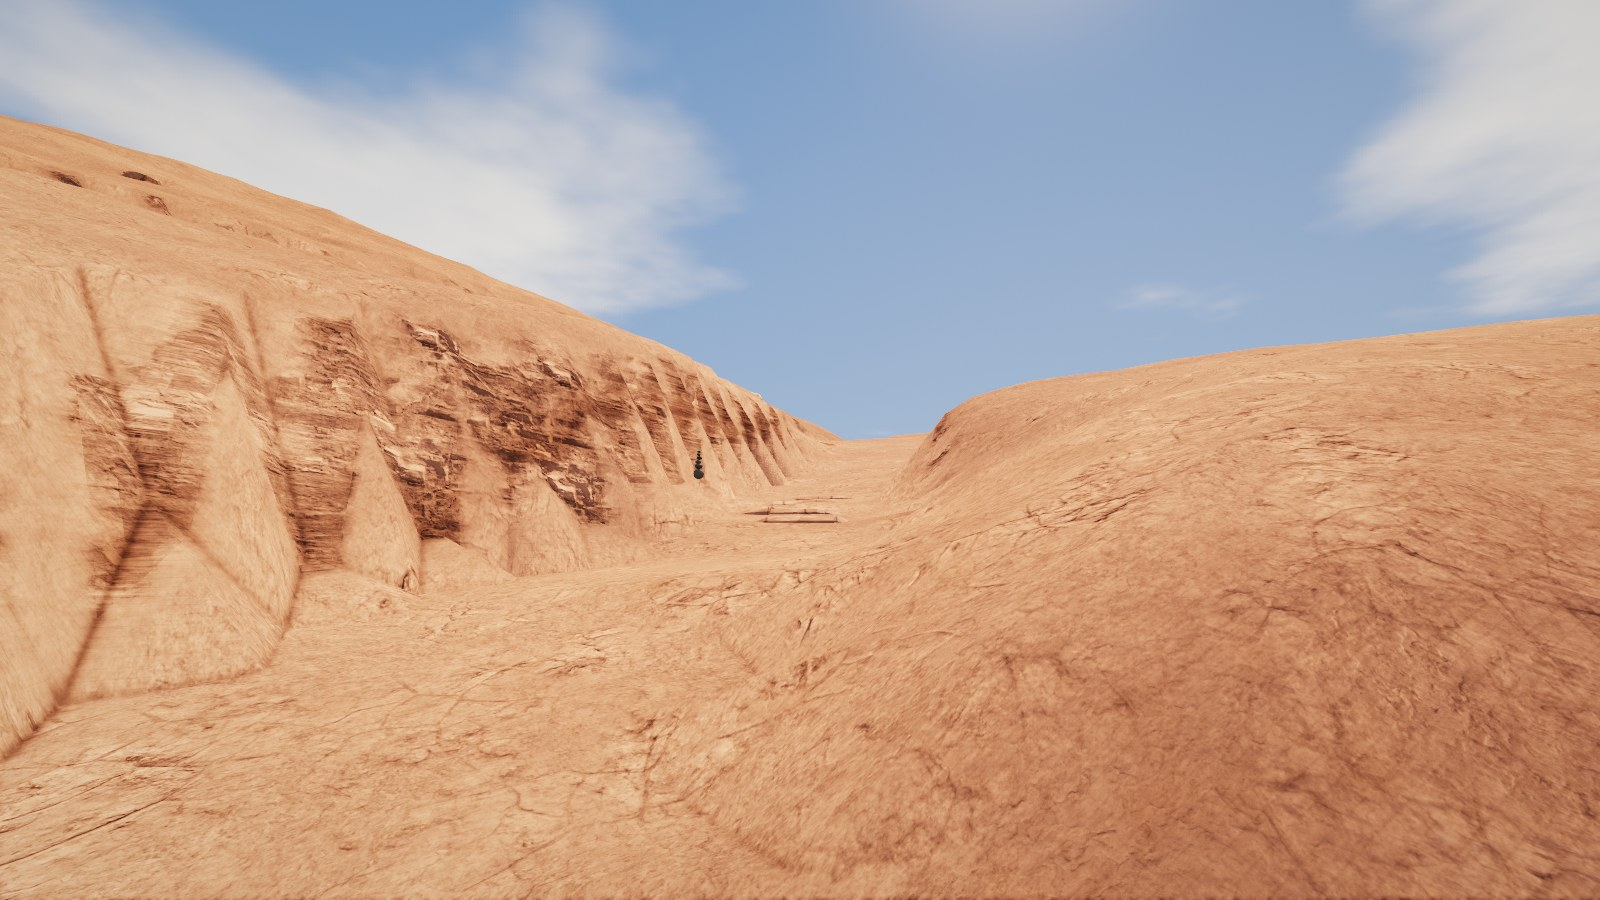
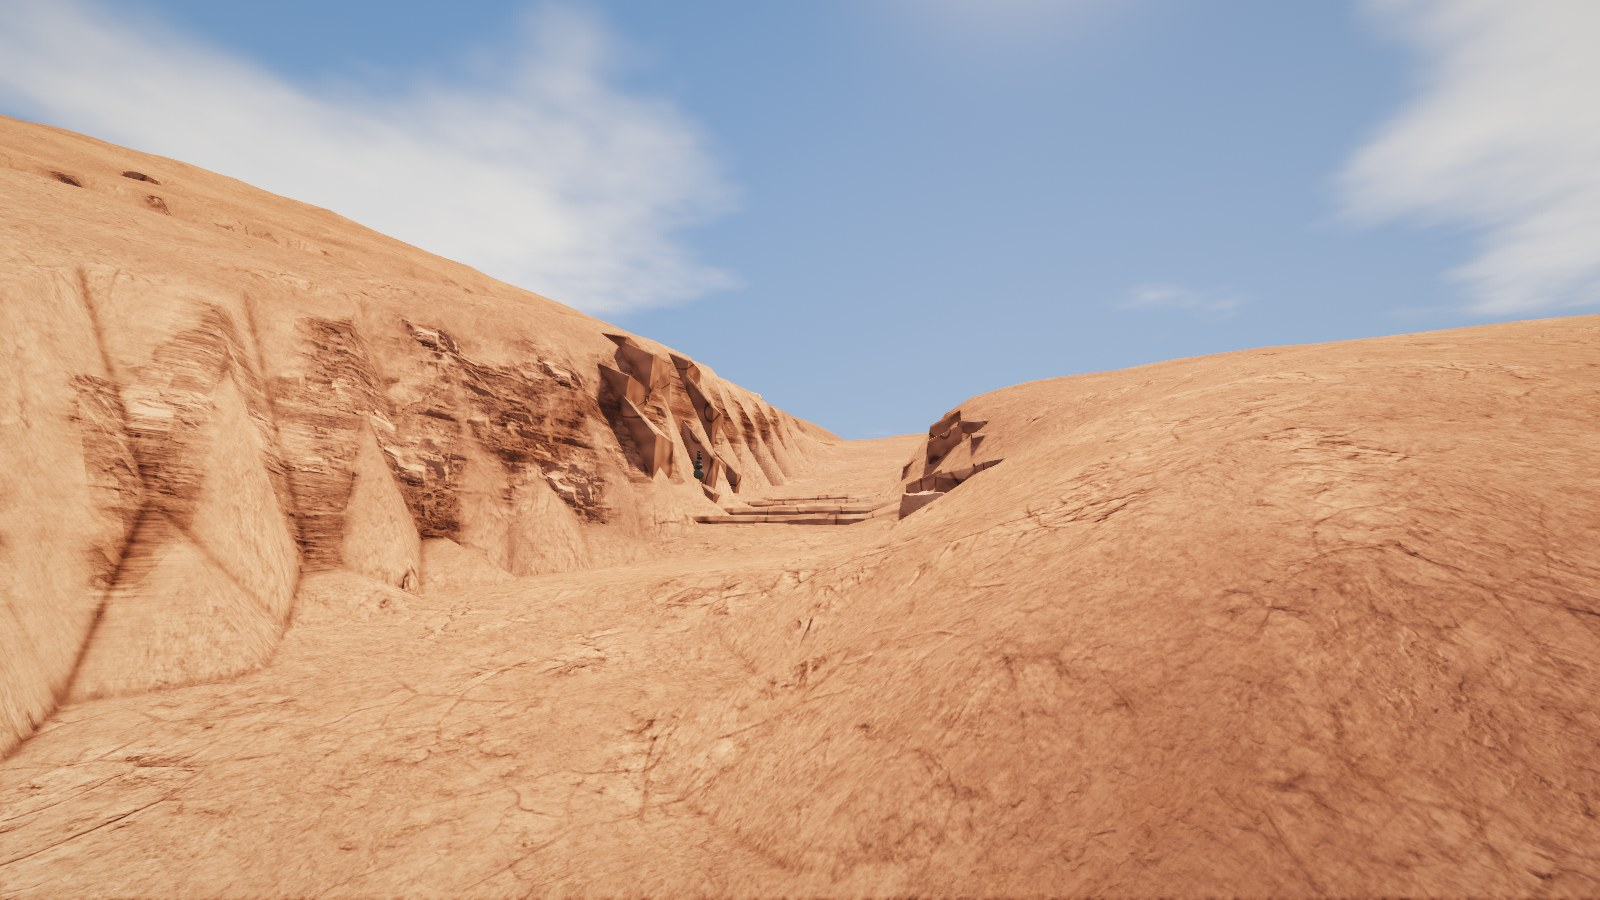
Obstacles: slabs O S, thick tabular undercut beds for ledges; on the Staircase, Golden Staircase, Double Whammy and Gold Bar's Waterfall
A sidecar obstacle's slabs key makes its ledges stacked tabular beds across the whole tread and S m past it, undercut O m below a
rounded lip; off the tread each bed stands 1.6x the step proud of the land, broken into flat-topped blocks set back their own ways,
with gaps. Code-made rocks take the band colour plain (not 12% lighter). Generic: per-obstacle data, no per-map code.
Tests: files and land fingerprints; all 13 moab/ scenarios pass, nine courses driven. Shots 51-55 retaken, verdicts updated.

Changed region(s): [[0.375, 0.3733, 0.625, 0.5911]]

diff --git a/src/realterrainbuild.cpp b/src/realterrainbuild.cpp
@@ -729,8 +729,12 @@ void World::buildReal() {
             // land as now built above and below the lip, and a piece where the step has faded under 0.15 m isn't laid.)
             // (On lidar, where the land is the survey's, a ledge is a shorter, off-centre lip that dies into the slope at its ends,
             // well rounded over: it reads as the rock's own bed, not a stair.)
-            const double span = onLidar ? W * (0.6 + 0.4 * roll01(700 + (int)li)) : W + 0.6 + (o.walls > 0 ? 0.0 : 3.0);
-            const double off = onLidar ? 0.5 * W * (roll01(800 + (int)li) - 0.5) : 0.0;
+            // (`slabs`: thick tabular beds, the full tread and SPREAD m either side of it on the land as it is, undercut, a little
+            // ragged in length: they read as a stack of ledges from afar)
+            const bool tab = o.slabOverhang > 0;
+            const double span = tab ? W + 0.6 + o.slabSpread * (0.7 + 0.6 * roll01(700 + (int)li))
+                                    : onLidar ? W * (0.6 + 0.4 * roll01(700 + (int)li)) : W + 0.6 + (o.walls > 0 ? 0.0 : 3.0);
+            const double off = !tab && onLidar ? 0.5 * W * (roll01(800 + (int)li) - 0.5) : tab ? 0.8 * (roll01(800 + (int)li) - 0.5) : 0.0;
             const int pieces = std::max(onLidar ? 2 : 3, (int)std::ceil(2 * span / 1.3));
             for (int pc = 0; pc < pieces; pc++) {
                 // (each piece set back or forward a little and a little lower or higher: a broken, weathered lip, not a kerb)
@@ -739,6 +743,12 @@ void World::buildReal() {
                 const double sg = stepSign > 0 ? 1.0 : -1.0;
                 std::vector<V3> pts;
                 bool weak = false;
+                // (a tabular bed off the tread is broken into blocks: now and then a gap, each block set back its own way and its top
+                // flat, not a ribbon following every bump of the land)
+                const bool offT = tab && std::fabs(0.5 * (v0 + v1)) > W + 0.6;
+                if (offT && roll01(900 + (int)li * 31 + pc) < 0.22) continue;
+                const double blockBack = offT ? 0.6 * (roll01(950 + (int)li * 31 + pc) - 0.5) : 0.0;
+                std::vector<double> tops;
                 for (int e = 0; e <= 3; e++) {
                     const double v = v0 + (v1 - v0) * e / 3.0;
                     auto at = [&](double sAt, double y) {
@@ -750,18 +760,21 @@ void World::buildReal() {
                         return height(q.x, q.z);
                     };
                     const double inTread = std::fabs(v) <= W + 0.6 ? 1.0 : 0.0;
-                    const double upperY = inTread ? upper + tanC * v : ground(sUp + sg * 0.6);
                     const double lowY = inTread ? lower + tanC * v : ground(sFace - sg * 0.7);
+                    // (a tabular bed off the tread stands proud of the land, thicker than the tread's own step: off the line it can be)
+                    const double upperY = inTread ? upper + tanC * v : tab ? std::max(ground(sUp + sg * 0.6), lowY + 1.6 * riseK[li]) : ground(sUp + sg * 0.6);
                     if (upperY - lowY < 0.15) weak = true;
                     const double jit = 0.08 * (roll01(rk++) - 0.5) + setback;
-                    const double taper = onLidar ? 1 - smoothstep(0.45 * span, span, std::fabs(v - off)) : 1.0;
+                    const double taper = tab ? 1 - smoothstep(span - 1.2, span, std::fabs(v - off)) : onLidar ? 1 - smoothstep(0.45 * span, span, std::fabs(v - off)) : 1.0;
                     const double topY = lowY + (upperY + 0.02 + drop + 0.05 * (roll01(rk++) - 0.5) - lowY) * taper, botY = lowY - 0.45;
                     const double rise = std::max(0.1, topY - lowY);
-                    const double fs = sFace + sg * jit;
-                    const double round = onLidar ? 1.6 : 1.0;  // (on lidar the lip rounds over further back)
-                    pts.push_back(at(fs - sg * 0.04, botY));                   // (the face's foot, buried)
-                    pts.push_back(at(fs - sg * 0.06, lowY + 0.25 * rise));     // (its lower face, a little undercut)
-                    pts.push_back(at(fs, lowY + 0.6 * rise));
+                    const double fs = sFace + sg * (jit + blockBack);
+                    tops.push_back(topY);
+                    const double round = tab ? 1.0 : onLidar ? 1.6 : 1.0;  // (on lidar the lip rounds over further back)
+                    const double under = tab ? o.slabOverhang : 0.06;           // (how far the face is cut back under the lip)
+                    pts.push_back(at(fs - sg * std::max(0.04, under), botY));  // (the face's foot, buried)
+                    pts.push_back(at(fs - sg * under, lowY + 0.25 * rise));    // (its lower face, undercut)
+                    pts.push_back(at(fs - sg * 0.5 * under, lowY + 0.6 * rise));
                     pts.push_back(at(fs + sg * 0.05 * round, topY - std::min(0.6, 0.22 * round) * rise));  // (the lip, rounded over)
                     pts.push_back(at(fs + sg * 0.16 * round, topY - 0.06 * round * rise));
                     pts.push_back(at(fs + sg * 0.34 * round, topY));
@@ -769,9 +782,19 @@ void World::buildReal() {
                     pts.push_back(at(sUp + back, botY));
                 }
                 if (weak) continue;
-                if (onLidar) {  // (a piece the taper has brought down to nothing isn't laid)
+                if (offT) {  // (its top flat: the lip and top corners brought to the block's mean, a little up or down)
+                    double mean = 0;
+                    for (double t : tops) mean += t / tops.size();
+                    mean += 0.2 * (roll01(990 + (int)li * 31 + pc) - 0.5);
+                    for (size_t q = 0; q < pts.size(); q++) {
+                        const int r = (int)(q % 8), e = (int)(q / 8);
+                        if (r >= 3 && r <= 5) pts[q].y += mean - tops[e];
+                        else if (r == 6) pts[q].y = mean - 0.02;  // (the block's top runs flat back to its rear edge)
+                    }
+                }
+                if (onLidar || tab) {  // (a piece the taper has brought down to nothing isn't laid)
                     const double vm = 0.5 * (v0 + v1);
-                    if (1 - smoothstep(0.45 * span, span, std::fabs(vm - off)) < 0.15) continue;
+                    if ((tab ? 1 - smoothstep(span - 1.2, span, std::fabs(vm - off)) : 1 - smoothstep(0.45 * span, span, std::fabs(vm - off))) < 0.15) continue;
                 }
                 addHullRock(pts, hmix(oseed ^ (uint32_t)(li * 977 + pc * 131 + 7)), (float)(0.92 + 0.14 * roll01(rk++)));
             }

diff --git a/src/realterrain.h b/src/realterrain.h
@@ -165,6 +165,7 @@ struct OsmNode {
 //   cross          ...or across it, diagonally (a tire drops in)
 //   bowl D R       a pothole D m deep and R m across the line (in and out over its lips)
 //   boulders N     N big scanned boulders in and beside the line to pick through
+//   slabs O [S]    the ledges are thick tabular beds, undercut O m, running S m past the tread either side
 //   bypass left|right|TRAIL   a way round it: authored on that side (laid as a trail), or a trail of the sidecar's (an OSM bypass)
 // What each is based on is said in a comment beside it in the sidecar.
 struct SpecObstacle {
@@ -178,6 +179,9 @@ struct SpecObstacle {
     bool crackAcross = false;
     double bowlDepth = 0, bowlSize = 0;
     int boulders = 0;
+    // slabs OVERHANG [SPREAD]: the ledges are thick tabular beds of rock (Golden Spike, the Staircase): each lip runs on SPREAD m past the
+    // tread either side (default 4) on the land as it is, undercut by OVERHANG m below a rounded lip, so the steps read from afar.
+    double slabOverhang = 0, slabSpread = 4;
 };
 // A point named over the land (`landmark NAME | node ID (or LAT LON)`): a tag shown near it, a cairn at it (a closed trail's sign).
 struct SpecLandmark {

diff --git a/src/realterrain.cpp b/src/realterrain.cpp
@@ -1021,6 +1021,13 @@ bool parseSpec(const std::string& text, const std::string& dir, Spec& s, std::st
                     else if (k == "cross") o.crackAcross = true;
                     else if (k == "bowl") o.bowlDepth = clampd(d(), 0, 4), o.bowlSize = clampd(d(), 2, 30);
                     else if (k == "boulders") o.boulders = (int)clampd(d(), 0, 40);
+                    else if (k == "slabs") {  // (OVERHANG [SPREAD]: the ledges are thick tabular beds; an optional second number)
+                        o.slabOverhang = clampd(d(), 0, 0.8);
+                        std::streampos at = ks.tellg();
+                        double sp;
+                        if (ks >> sp) o.slabSpread = clampd(sp, 0, 15);
+                        else ks.clear(), ks.seekg(at);
+                    }
                     else if (k == "bypass") {
                         std::string rest, w;
                         while (ks >> w) rest += (rest.empty() ? "" : " ") + w;  // (the rest of the field: a trail's name may have spaces)

diff --git a/tests/moab.cpp b/tests/moab.cpp
@@ -26,9 +26,9 @@ namespace rt = realterrain;
 
 namespace {
 // What the shipped files make (update with the files: a new crop, a changed terrain.txt or a change to the importer that moves the land).
-constexpr uint64_t kMoabFiles = 0x031a57740f20f689ull;  // the DEM's bytes, terrain.txt, moab.txt, osm.txt, the lidar patches and cover.tif (Spec::hash)
+constexpr uint64_t kMoabFiles = 0x5e7628aadda85961ull;  // the DEM's bytes, terrain.txt, moab.txt, osm.txt, the lidar patches and cover.tif (Spec::hash)
 constexpr uint64_t kMoabPlan = 0x675c14bcf4759c2eull;  // places, trails, obstacles and courses (planFingerprint)
-constexpr uint64_t kMoabLand = 0x5636615750541fafull;  // World::landHash, code-made rocks (Linux x86-64)
+constexpr uint64_t kMoabLand = 0x1dabe7d84d93fe3eull;  // World::landHash, code-made rocks (Linux x86-64)
 // A built Moab is about 2.3 GB (the 16.5 km grid): one at a time, whatever --jobs is (docs/real-terrain.md, memory).
 std::mutex gOneMoab;
 

diff --git a/src/scenery.cpp b/src/scenery.cpp
@@ -242,7 +242,7 @@ void buildRockMesh(const World& world, std::vector<Vtx>& v, const ScanCover& ski
         if (k.scan >= 0 && skip.rocks) continue;
         // The collider's own facets, each split into 16 and given a little relief, always
         // pushed inward (toward the middle), so nothing drawn sticks out past what a tire hits.
-        const V3 col = (strata ? strataCol(k.c) * 1.12 : V3(0.34, 0.32, 0.30)) * k.tint;
+        const V3 col = (strata ? strataCol(k.c) * 1.0 : V3(0.34, 0.32, 0.30)) * k.tint;
         const int mat = strata ? SM_SLAB : SM_ROCK;  // (sandstone: no moss)
         const bool snowy = world.surfaceAt(k.c.x, k.c.z) == SURF_SNOW;  // snow lies on its top
         const double relief = std::min(0.05, 0.035 * k.r);

diff --git a/docs/review/moab/slickrock-review.md b/docs/review/moab/slickrock-review.md
@@ -17,10 +17,11 @@ the NAIP brush class at about three times the density; and the rock bands sit 13
 | 50 Hell's Revenge domes, wide | 4900,300,45,-42,-6 | NAIP 2024 0.6 m over the fins (data/real/moab/source/hires/naip2024, block e627600 n4270800); [derek_up_a_steep_hill](https://traildamage.com/wp-content/uploads/trails/hells_revenge/031024/derek_up_a_steep_hill.jpg) | Much better: the skyline is the real fins and knobs, banded and varnished, over bare pinkish rock with sand in the hollows. Still wrong: the foreground plain is smoother than the real Sand Flats, brush is sparse from this height, the trees are green cones, and the sand patches are still flat in colour. |
 | 51 Hell's Gate | 4264.7,4034.7,4,41.2,0.6 | [hells_gate.jpg](https://traildamage.com/wp-content/uploads/trails/hells_revenge/060324/hells_gate.jpg), [mike_up_hells_gate_part_1](https://traildamage.com/wp-content/uploads/trails/hells_revenge/060324/mike_up_hells_gate_part_1.jpg) | Close to the photos in form for the first time: a deep V slot between two tall smooth rock walls, the trail a narrow floor at its bottom, the walls banded with varnish streaks. Off: the walls' cross-bedding is too coarse and blotchy (the cliff texture); long straight shading creases cross the foreground (the terrain mesh's big simplified triangles, an older renderer artefact also in the original shots, not the lidar: they stay with the sharpening off); the slot's floor has a bright orange sand pool where the photo has bare rock with a little sand; the ledges at its head don't read at this distance. |
 | 52 Escalator | 3896.7,2281.2,4,116.4,-1.5 | [escalator.jpg](https://traildamage.com/wp-content/uploads/trails/hells_revenge/030510/escalator.jpg), [kendall_and_escalator_part_2](https://traildamage.com/wp-content/uploads/trails/hells_revenge/030510/kendall_and_escalator_part_2.jpg) | Much better: a smooth climb up the saddle between two rounded domes, the steps barely visible, which is how the photos read. The domes are paler and less salmon than the photos and their surfaces too uniformly cracked. |
-| 53 The Staircase | 4291.3,1838.6,4,59.3,11.6 | no photo of the Staircase itself found; the Hell's Revenge slickrock photo above for colour and texture | The four even slab stairs are gone: it is now a narrow pass between two domes with steep banded walls. From this camera the ledges don't show at all, so it no longer reads as a staircase; that may be too subtle for an obstacle named for its steps. |
-| 54 The Waterfall (Gold Bar Rim) | -5988.3,4164.5,3,116.9,-24.7 | [roger_up_a_ledge](https://traildamage.com/wp-content/uploads/trails/gold_bar_rim/060323/roger_up_a_ledge.jpg) (a Gold Bar Rim ledge, not the Waterfall) | Better colour and real ground, but the obstacle itself is now nearly invisible from here: the photo's thick ledges with dark undercuts aren't in it. The track beside it is a dark brown strip. |
-| 55 Golden Spike (Double Whammy) | -5005.7,4671.7,3,-22.3,2.4 | [aaron_on_the_golden_stairs](https://traildamage.com/wp-content/uploads/trails/golden_spike/040515/aaron_on_the_golden_stairs.jpg) | The ground is the real rim and reads as pale slickrock, but the photo's thick, stacked tabular slabs are missing: the ledges here are too small to see. |
+| 53 The Staircase | 4291.3,1838.6,4,59.3,11.6 | no photo of the Staircase itself found; the Golden Spike stairs photo below for the form of tabular ledges | With `slabs` its ledges now read from the camera: a stack of thick slab steps across the floor of the pass between the domes. Off: the beds' blocks that run up the pass's steep sides sit on the slope like boxes, too clean-edged and faceted, and the steps are still small at this distance. |
+| 54 The Waterfall (Gold Bar Rim) | -5988.3,4164.5,3,116.9,-24.7 | [roger_up_a_ledge](https://traildamage.com/wp-content/uploads/trails/gold_bar_rim/060323/roger_up_a_ledge.jpg) (a Gold Bar Rim ledge, not the Waterfall) | The ledges are visible again, as two thick beds of flat-topped blocks across the slope, undercut. Off: the blocks are too regular and smooth-faceted (they read a little like crates), the same colour as the ground with no darker varnish on their faces, and the photo's ledge is a broken rounded lip, not blocks. |
+| 55 Golden Spike (Double Whammy) | -5005.7,4671.7,3,-22.3,2.4 | [aaron_on_the_golden_stairs](https://traildamage.com/wp-content/uploads/trails/golden_spike/040515/aaron_on_the_golden_stairs.jpg) | Closest yet to the photo's form: two rows of thick tabular blocks stepping across the slope, broken and set back irregularly. Off: too angular and uniform in thickness, the faces lack the photo's dark undercut shadow and rounded edges, and the colour is a touch too orange for the photo's pale cream. |
 
 Overall: the "stupid looking rocks" are gone and the land near the obstacles is now the survey's, which is the biggest single gain.
-What's missing now is the opposite of before: the ledge-and-slab obstacles (Waterfall, Golden Spike, the Staircase) are too subtle,
-since 1 m lidar rounds their steps away and the authored slabs were made small.
+Hell's Gate and the Escalator read like their photos in form; the ledge obstacles (Staircase, Waterfall, Golden Spike) now have
+visible stacked tabular beds (`slabs`), which read as ledges from the cameras but are too angular and clean, more cut stone than
+weathered sandstone.

diff --git a/docs/real-terrain.md b/docs/real-terrain.md
@@ -236,6 +236,9 @@ real form: its authored walls, fins, pitch and camber are dropped, and only the 
 or down) with their faces as slabs; a crack or a pothole is still authored (the survey smooths them). Its tread is at most 1.8 m
 either side, eased in over 2 m. The ledges (everywhere) are uneven: spacing jittered, rises varied up to about a fifth either way
 (adding up to what's authored); on lidar each is a shorter, off-centre lip, rounded over and dying into the slope at its ends.
+An obstacle's `slabs O S` makes its ledges thick tabular beds instead: across the whole tread and S m past it either side, undercut O m
+under the lip; off the tread each bed stands 1.6x the step proud of the land as it is, broken into flat-topped blocks, each set back its
+own way with now and then a gap (Moab: the Staircase, the Golden Staircase, Double Whammy, Gold Bar's Waterfall).
 
 `strata_fault LAT LON LAT LON SHIFT WIDTH` offsets the bands across a fault: left of the line from the first point to the second they
 sit SHIFT m higher, eased over WIDTH (Moab: 130 m higher south-west of the valley, an approximation from the rims' heights, not a
